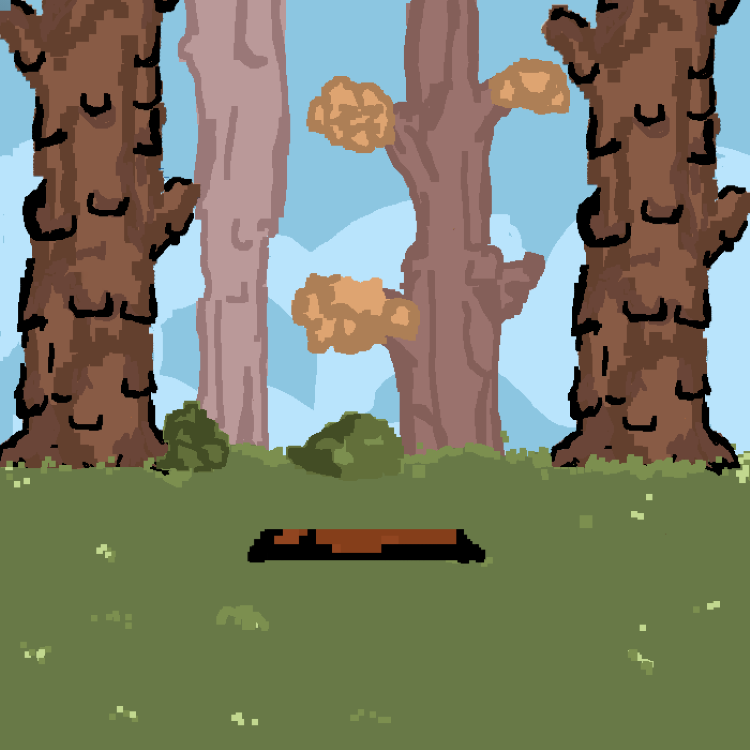
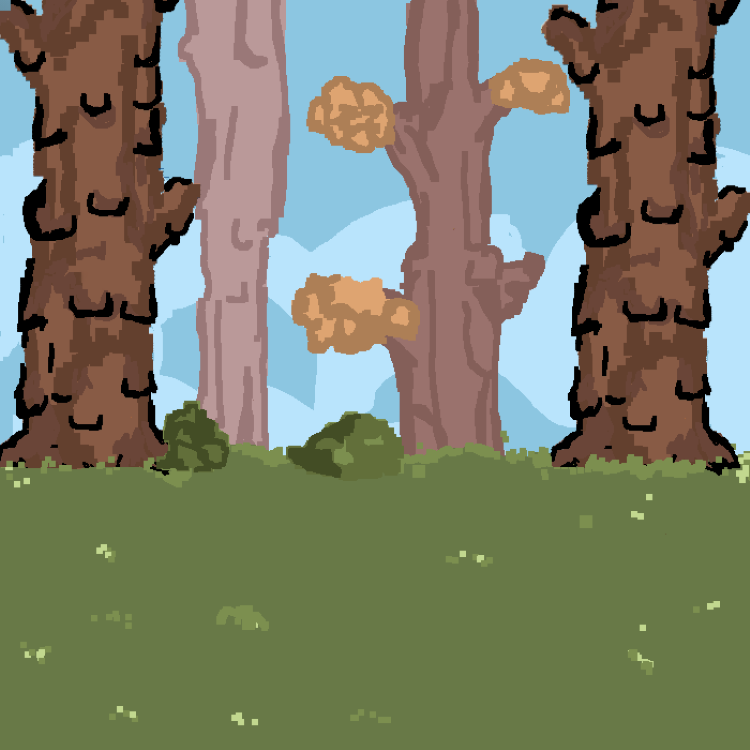
alterações no código para merge e novos galhos

Changed region(s): [[0.3067, 0.7053, 0.644, 0.7667]]

diff --git a/MeuMundo.java b/MeuMundo.java
@@ -12,6 +12,7 @@ public class MeuMundo extends World
     private int contador;
     private ArrayList<TroncoNormal> listaTroncos = new ArrayList<>();
     private Lenhador lenhador = new Lenhador();
+
     /**
      * Constructor for objects of class MeuMundo.
      * 
@@ -28,33 +29,31 @@ public class MeuMundo extends World
      */
     private void prepare()
     {
-        addObject(lenhador,128,465);
+        addObject(lenhador,215,663);
+
+        BaseTronco baseTronco = new BaseTronco();
+        addObject(baseTronco,378,713);
+
         TroncoNormal tronco1 = new TroncoNormal("normal");
-        addObject(tronco1,393,500);
-        TroncoNormal tronco2 = new TroncoNormal("normal");
-        addObject(tronco2,393,450);
+        addObject(tronco1,377,614);
+
+        TroncoNormal tronco2 = new TroncoNormal("esquerda");
+        addObject(tronco2,314,454);
+
         TroncoNormal tronco3 = new TroncoNormal("normal");
-        addObject(tronco3,393,400);
-        TroncoNormal tronco4 = new TroncoNormal("normal");
-        addObject(tronco4,393,350);
+        addObject(tronco3,377,294);
+
+        TroncoNormal tronco4 = new TroncoNormal("direita");
+        addObject(tronco4,439,134);
+
         TroncoNormal tronco5 = new TroncoNormal("normal");
-        addObject(tronco5,393,300);
-        TroncoNormal tronco6 = new TroncoNormal("normal");
-        addObject(tronco6,393,250);
-        TroncoNormal tronco7 = new TroncoNormal("normal");
-        addObject(tronco7,393,200);
-        TroncoNormal tronco8 = new TroncoNormal("normal");
-        addObject(tronco8,393,150);
+        addObject(tronco5,377,-26);
 
         listaTroncos.add(tronco1);
         listaTroncos.add(tronco2);
         listaTroncos.add(tronco3);
         listaTroncos.add(tronco4);
         listaTroncos.add(tronco5);
-        listaTroncos.add(tronco6);
-        listaTroncos.add(tronco7);
-        listaTroncos.add(tronco8);
-
     }
     
     public void act()
@@ -72,15 +71,15 @@ public class MeuMundo extends World
             }
             if(listaTroncos.get(1).getLado().equals("direita"))
             {
-                //removeObject(lenhador);
+                removeObject(lenhador);
             }
-            //removeObject(tronco0);
+            removeObject(tronco0);
             listaTroncos.remove(0);
             for (int i = 0; i < listaTroncos.size(); i++) {
-                for (int j = 1; j < 25; j++) {
+                for (int j = 1; j < 160; j++) {
                     listaTroncos.get(i).setLocation(
                             listaTroncos.get(i).getX(),
-                            listaTroncos.get(i).getY() + 2);
+                            listaTroncos.get(i).getY() + 1);
                 }
 
             }
@@ -101,15 +100,15 @@ public class MeuMundo extends World
             }
             if(listaTroncos.get(1).getLado().equals("esquerda"))
             {
-                //removeObject(lenhador);
+                removeObject(lenhador);
             }
-            //removeObject(tronco0);
+            removeObject(tronco0);
             listaTroncos.remove(0);
             for (int i = 0; i < listaTroncos.size(); i++) {
-                for (int j = 1; j < 25; j++) {
+                for (int j = 1; j < 160; j++) {
                     listaTroncos.get(i).setLocation(
                             listaTroncos.get(i).getX(),
-                            listaTroncos.get(i).getY() + 2);
+                            listaTroncos.get(i).getY() + 1);
                 }
 
             }
@@ -171,19 +170,19 @@ public class MeuMundo extends World
             if(random<2)
             {
                 TroncoNormal tronco = new TroncoNormal("esquerda");
-                addObject(tronco,393,150);
+                addObject(tronco,317,-40);
                 listaTroncos.add(tronco);
             }
             else if(random>8)
             {
                 TroncoNormal tronco = new TroncoNormal("direita");
-                addObject(tronco,393,150);
+                addObject(tronco,442,-40);
                 listaTroncos.add(tronco);
             }
             else
             {
                 TroncoNormal tronco = new TroncoNormal("normal");
-                addObject(tronco,393,150);
+                addObject(tronco,380,-40);
                 listaTroncos.add(tronco);
             }
         }

diff --git a/Lenhador.java b/Lenhador.java
@@ -18,8 +18,8 @@ public class Lenhador extends Actor {
             animationFrames[i] = new GreenfootImage("lenhador" + i + ".png");
         }
 
-        setLocation(128, 465);
-        getImage().scale(300, 300);
+        setLocation(215,663);
+        getImage().scale(160, 160);
 
         currentFrame = 0;
         frameDirection = 1;
@@ -30,8 +30,8 @@ public class Lenhador extends Actor {
         if (Greenfoot.isKeyDown("left")) {
             for (int i = 0; i < animationFrames.length; i++) {
                 animationFrames[i] = new GreenfootImage("lenhador" + i + ".png");
-                setLocation(128, 465);
-                animationFrames[i].scale(300, 300);
+                setLocation(215,663);
+                animationFrames[i].scale(160, 160);
             }
 
             ladoDireito = false;
@@ -40,8 +40,8 @@ public class Lenhador extends Actor {
         } else if (Greenfoot.isKeyDown("right")) {
             for (int i = 0; i < animationFrames.length; i++) {
                 animationFrames[i] = new GreenfootImage("lenhadorInvertido" + i + ".png");
-                setLocation(623, 465);
-                animationFrames[i].scale(300, 300);
+                setLocation(530,663);
+                animationFrames[i].scale(160, 160);
             }
 
             ladoDireito = true;

diff --git a/TroncoNormal.java b/TroncoNormal.java
@@ -20,16 +20,20 @@ public class TroncoNormal extends Actor
         if(tipo.equals("normal"))
         {
             setImage("troncoNormal.png");
+            getImage().scale(160, 160);
             lado=tipo;
         }
         else if(tipo.equals("esquerda"))
         {
-            setImage("tree.png");
+            setImage("troncoGalho.png");
+            getImage().scale(283, 160);
             lado=tipo;
         }
         else if (tipo.equals("direita"))
         {
-            setImage("baby2.png");
+            setImage("troncoGalho.png");
+            getImage().mirrorHorizontally();
+            getImage().scale(283, 160);
             lado=tipo;
         }
     }

diff --git a/BaseTronco.java b/BaseTronco.java
@@ -1,0 +1,23 @@
+import greenfoot.*;  // (World, Actor, GreenfootImage, Greenfoot and MouseInfo)
+
+/**
+ * Write a description of class BaseTronco here.
+ * 
+ * @author (your name) 
+ * @version (a version number or a date)
+ */
+public class BaseTronco extends Actor
+{
+    public BaseTronco()
+    {
+        getImage().scale(210, 50);
+    }
+
+    /**
+     * Act - do whatever the BaseTronco wants to do. This method is called whenever
+     * the 'Act' or 'Run' button gets pressed in the environment.
+     */
+    public void act()
+    {
+    }
+}
